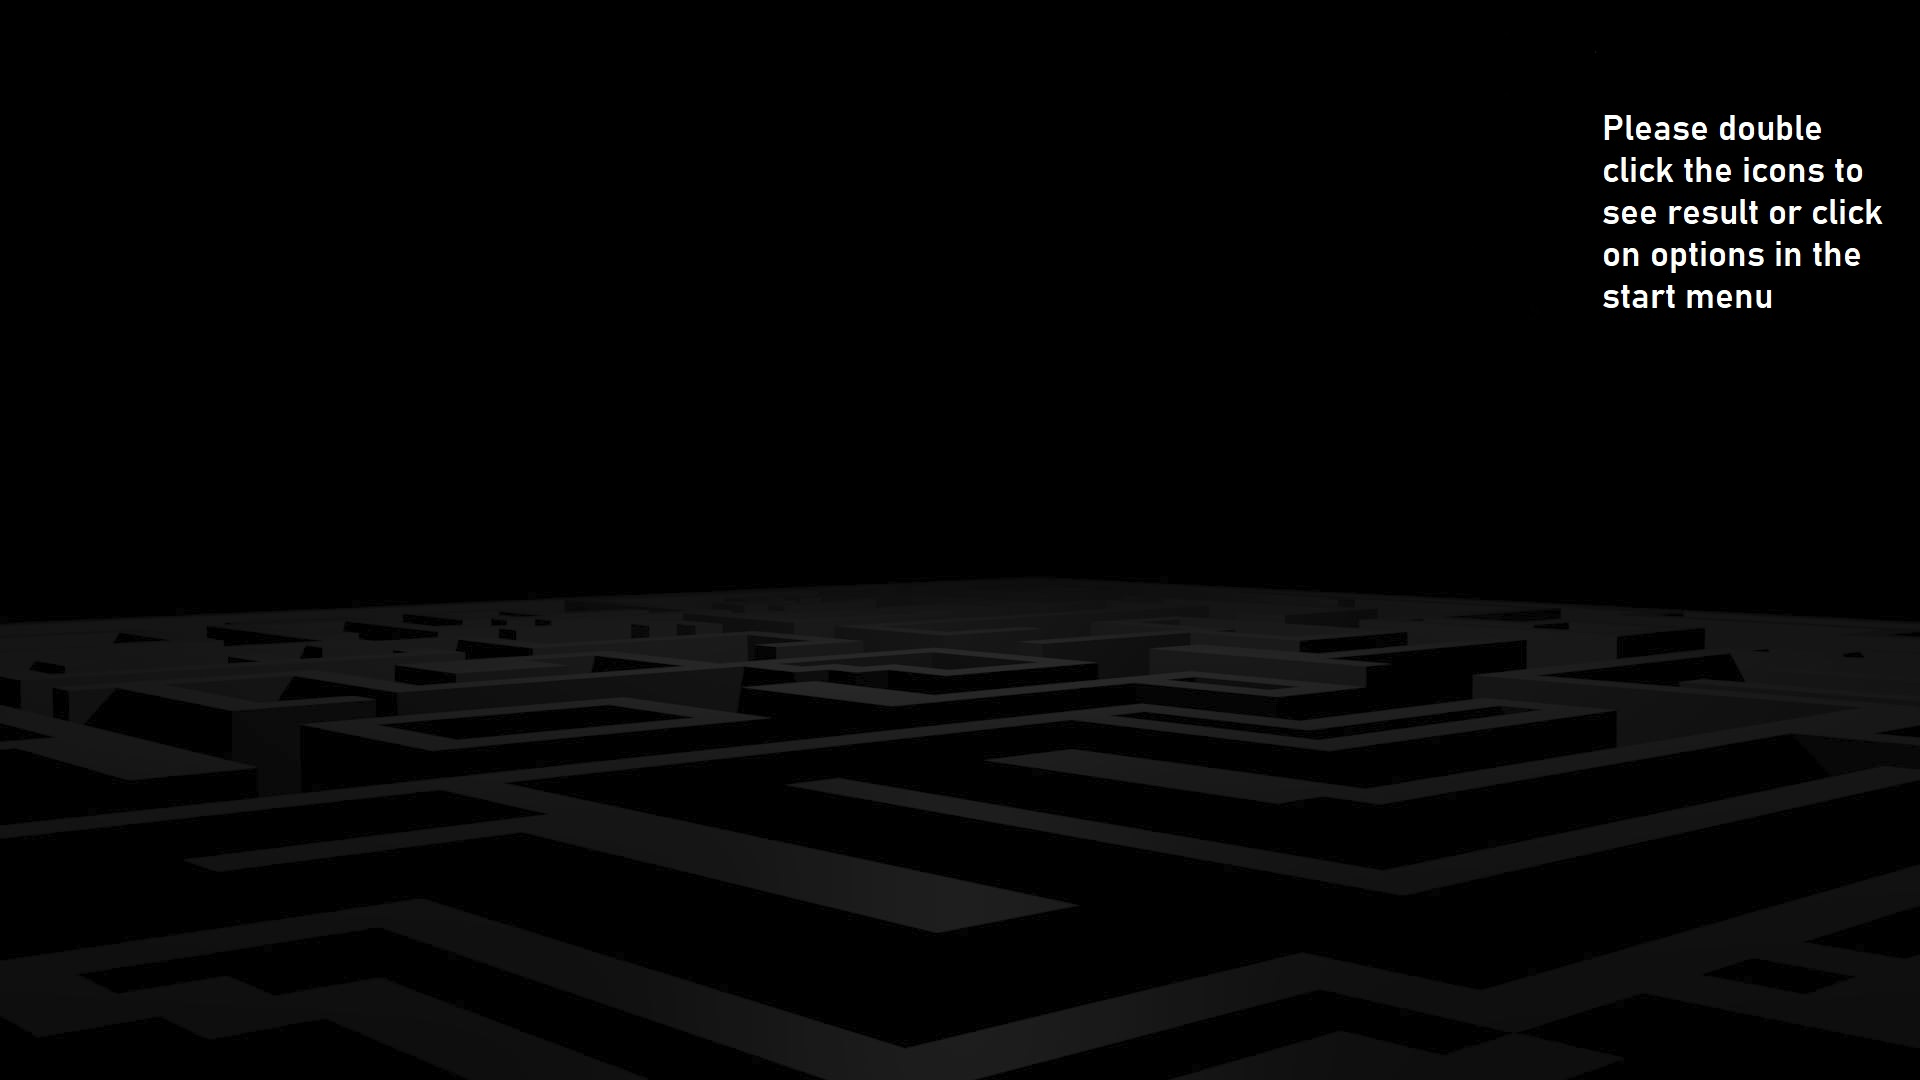
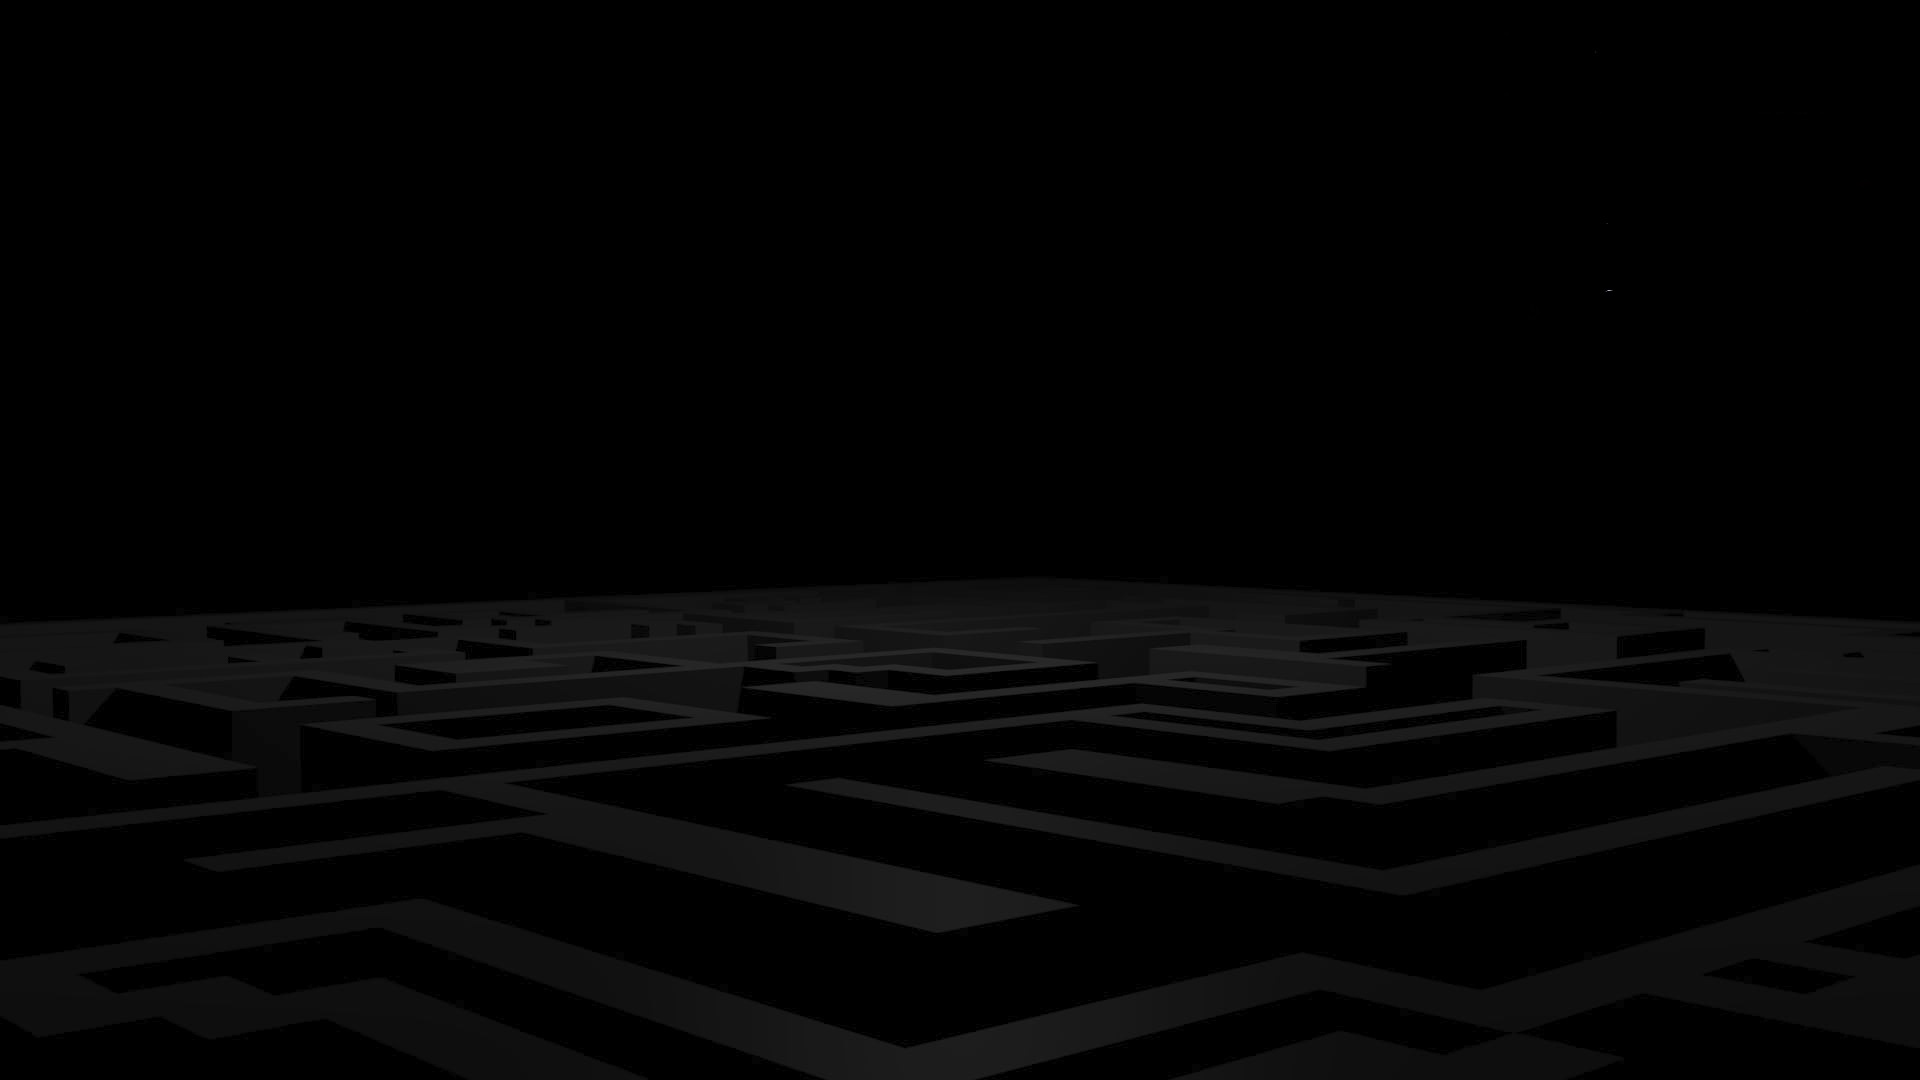
new changes for more intititveness

Changed region(s): [[0.8125, 0.0917, 1.0, 0.3056]]

diff --git a/main.js b/main.js
@@ -7,6 +7,7 @@ document.addEventListener('DOMContentLoaded', () => {
     const nextBtn = document.getElementById('nextBtn');
     const prevBtn = document.getElementById('prevBtn');
     const currentSongTitle = document.getElementById('currentSongTitle');
+    const currentSongImage = document.getElementById('currentSongImage');
     const volumeSlider = document.getElementById('volumeSlider');
     const startButton = $('#startButton');
     const startMenu = $('#startMenu');
@@ -36,6 +37,7 @@ document.addEventListener('DOMContentLoaded', () => {
         const songSrc = songItem.getAttribute('data-src');
         const songTitle = songItem.textContent;
         currentSongTitle.textContent = songTitle;
+        currentSongImage.src = songSrc.replace('mp3','jpg');
         audioPlayer.unload();
         audioPlayer._src = songSrc;
         audioPlayer.load();
@@ -97,8 +99,8 @@ document.addEventListener('DOMContentLoaded', () => {
 
     function setupDraggableIcons() {
     //300 is offset for both cuz icons get over shadowed by music player
-    const containerWidth = window.innerWidth - 300; 
-    const containerHeight = window.innerHeight - 300; 
+    const containerWidth = window.innerWidth - 400; 
+    const containerHeight = window.innerHeight - 400; 
 
         icons.forEach(icon => {
             const iconWidth = icon.offsetWidth;

diff --git a/index.html b/index.html
@@ -9,6 +9,7 @@
 </head>
 <body class="bg">
     <div id="desktop">
+        <h3 style="color: azure; font-size: small; font-weight: bold; text-align: center;">Please double click the icons to see the result or click on options in the start menu</h3>
         <div class="taskbar">
             <div class="models">
                 <button style="margin-left:50px; ;" id="startButton">
@@ -42,6 +43,7 @@
         <!-- Music Player -->
         <div id="musicPlayer" class="musicPlayer">
             <header>Music</header>
+            <img src="fakelovedontlast.jpg" id="currentSongImage" class="songImage"/>
             <p style="color: rgb(17, 34, 34); font-weight: bold;" id="currentSongTitle">Current Song Title</p>
             <div id="playerControls">
                 <button id="prevBtn"></button>

diff --git a/style.css b/style.css
@@ -180,6 +180,12 @@ body, html {
   margin-bottom: 10px;
 }
 
+.songImage {
+    width: 120px;
+    height: 90px;
+    margin-left: 70px;
+}
+
 #songWallpapper {
   display: block;
   margin: 0 auto 10px;
